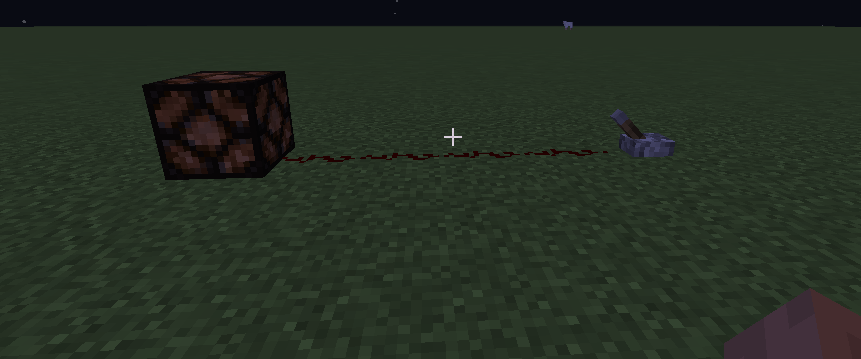
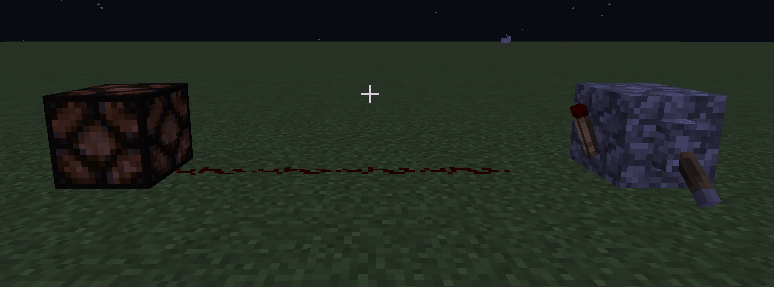
update some images

diff --git a/lab01.md b/lab01.md
@@ -18,7 +18,7 @@
 ## **门电路介绍**
 >*用以实现基本逻辑运算和复合逻辑运算的单元电路称为门电路。*
 
-这句话摘自百科，咋听起来很复杂，实则非也。简单（但不一定准确）来说，用 0 表示无信号，用 1 表示有信号。一个 “门” 的作用，就是把输入的布尔值转换为输出。用 “门” （门电路的英文是“gate circuit"）这个词是很形象的，几个输入通过一扇门进入一个房间，之后再出来，就成了输出。这个房间里面就装着复杂（或许不复杂）的电路，但是我们不必关注这些细节，把它当成黑盒即可。
+这句话摘自百科，咋听起来很复杂，实则非也。简单（但不一定准确）来说，用 0 表示无信号，用 1 表示有信号。一个 “门” 的作用，就是把输入的布尔值转换为输出。用 “门” （门电路的英文是“gate circuit"）这个词是很形象的，几个输入通过一扇门进入一个房间，之后再出来，就成了输出。这个房间里面就装着复杂（或许不复杂）的电路，其他人或许不必关注这些细节，仅把它当成黑盒，但是本文正是要 “解剖” 这个黑盒。
 
 举个简单的例子就可以理解了。例如，与门（AND）。回忆一下逻辑运算里的AND，或者说 “∧”。当A与B都为1时，A ∧ B才为1，只要其中一个为0，那么A ∧ B就为0了。用电路图来表示如下：
 
@@ -59,13 +59,18 @@ XNOR或称 “异或非门”
 
 关于电路，还有很多概念，比如充能等级、红石刻等，这些概念在本文中用不到，有兴趣的可以参考一下[我的世界中文wiki][1]。
 
-本文使用到的物品只有拉杆、红石火把、红石粉、红石灯和圆石。拉杆是作为电源用的，它有两种状态，处于某一种时，会供电；处于另一种时，不会供电，在下文，拉杆即作为输入。红石火把亮时，会供电；不亮时，不会供电。红石粉没什么好说的了，就是传递电能的。红石灯如果接收到了电能，会被点亮，在下文，红石灯作为输出。这里用到圆石，是因为要用到红石火把的一个特性：红石火把在附着的方块被充能后熄灭，这里我用了圆石来让红石火把附着。
+本文使用到的物品只有拉杆、红石火把、红石粉、红石灯和圆石。拉杆是作为电源用的，它有两种状态，处于某一种时，会供电；处于另一种时，不会供电。红石火把亮时，会供电；不亮时，不会供电。红石粉没什么好说的了，就是传递电能的。红石灯如果接收到了电能，会被点亮，在下文，红石灯作为输出，亮即为1，灭即为0。这里用到圆石，是因为要用到红石火把的一个特性：红石火把在附着的方块被充能后熄灭，这里我用了圆石来让红石火把附着。
+
+该如何表示 “输入” 呢？如果仅仅用拉杆的话，虽然不是不可以，但是输入的值直观上来看不太清晰，因为拉杆的两种状态是向不同的两边旋转45°。但是借由上一段提到的红石火把的特性，可以组装成一个很直观的电源作为输入值。
 
 先来看看一个最简单的、什么 “门” 都没有的电路吧：
 
 ![bare-lever-off](https://raw.githubusercontent.com/ciaoSora/swi-homework/gh-pages/images/1-wk3_bare-lever-off.png)
+红石灯未接收到电能，处于熄灭状态。
 
-上图，拉杆没有供电，灯没有亮。现在，只要把拉杆拉向另一边，就可以看到：
+先来解释一下这个组装的 “电源” 吧，事实上，现在这个拉杆是正在供电的，但为什么反而组装电源没有向外界供电呢？因为这个圆石被拉杆充能，附着其上的红石火把即熄灭，没有向这个电路供电。如果现在在圆石的右边连电路，就可以看出拉杆确实在供电。
+
+现在，只要把拉杆拉向另一边，就可以看到：
 
 ![bare-lever-on](https://raw.githubusercontent.com/ciaoSora/swi-homework/gh-pages/images/1-wk3_bare-lever-on.png)
 
@@ -84,13 +89,15 @@ XNOR或称 “异或非门”
 
 ![not-0](https://raw.githubusercontent.com/ciaoSora/swi-homework/gh-pages/images/1-wk3_not-0.png)
 
-这就是一个非门了！现在的输入为0（显然拉杆没有供电，因为右边的红石粉末没有发亮），输出为1（灯亮了）。红石灯发亮是由于红石火把向其供电了。现在拨动拉杆，将输入改为1。
+这就是一个非门了！注意，虽然有两个圆石，但是只有右边那个才是组装电源，左边的只是非门电路中的一部分，别混淆了。现在的输入为0（可以看到组装电源的火把处于熄灭状态），输出为1（红石灯亮了）。红石灯发亮是由于左边的那个红石火把向其供电了。现在拨动拉杆，将输入改为1。
 
 ![not-1](https://raw.githubusercontent.com/ciaoSora/swi-homework/gh-pages/images/1-wk3_not-1.png)
 
 灯熄灭了，即输出为0。上文讲过，红石火把在附着的方块被充能后熄灭。这里，这块圆石被拉杆充能，因此红石火把熄灭，不供电了，灯也无法接收到电能了。
 
 输入0，输出1；输入1，输出0，完美！
+
+### AND
 
 
 
